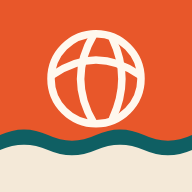
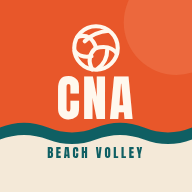
Nuova icona CNA Beach Volley per la schermata Home
Claude-Session: https://claude.ai/code/session_01D1jvnC9ZuNW5AjnUwfBH55

Changed region(s): [[0.0, 0.125, 1.0, 0.8438]]

diff --git a/index.html b/index.html
@@ -11,19 +11,19 @@
   <meta name="apple-mobile-web-app-title" content="Beach Volley">
   <title>Beach Volley tra colleghi</title>
   <link rel="manifest" href="manifest.webmanifest">
-  <link rel="icon" href="icone/icona.svg" type="image/svg+xml">
+  <link rel="icon" href="icone/icona-192.png" type="image/png">
   <link rel="apple-touch-icon" href="icone/apple-touch-icon.png">
   <link rel="preconnect" href="https://fonts.googleapis.com">
   <link rel="preconnect" href="https://fonts.gstatic.com" crossorigin>
   <link href="https://fonts.googleapis.com/css2?family=Anton&family=DM+Sans:wght@400;500;700&display=swap" rel="stylesheet">
-  <link rel="stylesheet" href="css/app.css?v=5">
+  <link rel="stylesheet" href="css/app.css?v=6">
 </head>
 <body>
   <div id="app"></div>
   <noscript>Per usare l'app serve JavaScript attivo.</noscript>
-  <script src="js/config.js?v=5"></script>
-  <script src="js/logic.js?v=5"></script>
-  <script src="js/api.js?v=5"></script>
-  <script src="js/app.js?v=5"></script>
+  <script src="js/config.js?v=6"></script>
+  <script src="js/logic.js?v=6"></script>
+  <script src="js/api.js?v=6"></script>
+  <script src="js/app.js?v=6"></script>
 </body>
 </html>

diff --git a/sw.js b/sw.js
@@ -1,5 +1,5 @@
 /* Tiene in memoria la grafica dell'app così si apre subito; i dati arrivano sempre freschi dalla rete. */
-const VERSIONE = 'bv-v5';
+const VERSIONE = 'bv-v6';
 const FILE = ['./', 'index.html', 'css/app.css', 'js/config.js', 'js/logic.js', 'js/api.js', 'js/app.js', 'manifest.webmanifest', 'icone/icona.svg', 'icone/icona-192.png'];
 
 self.addEventListener('install', (e) => {
